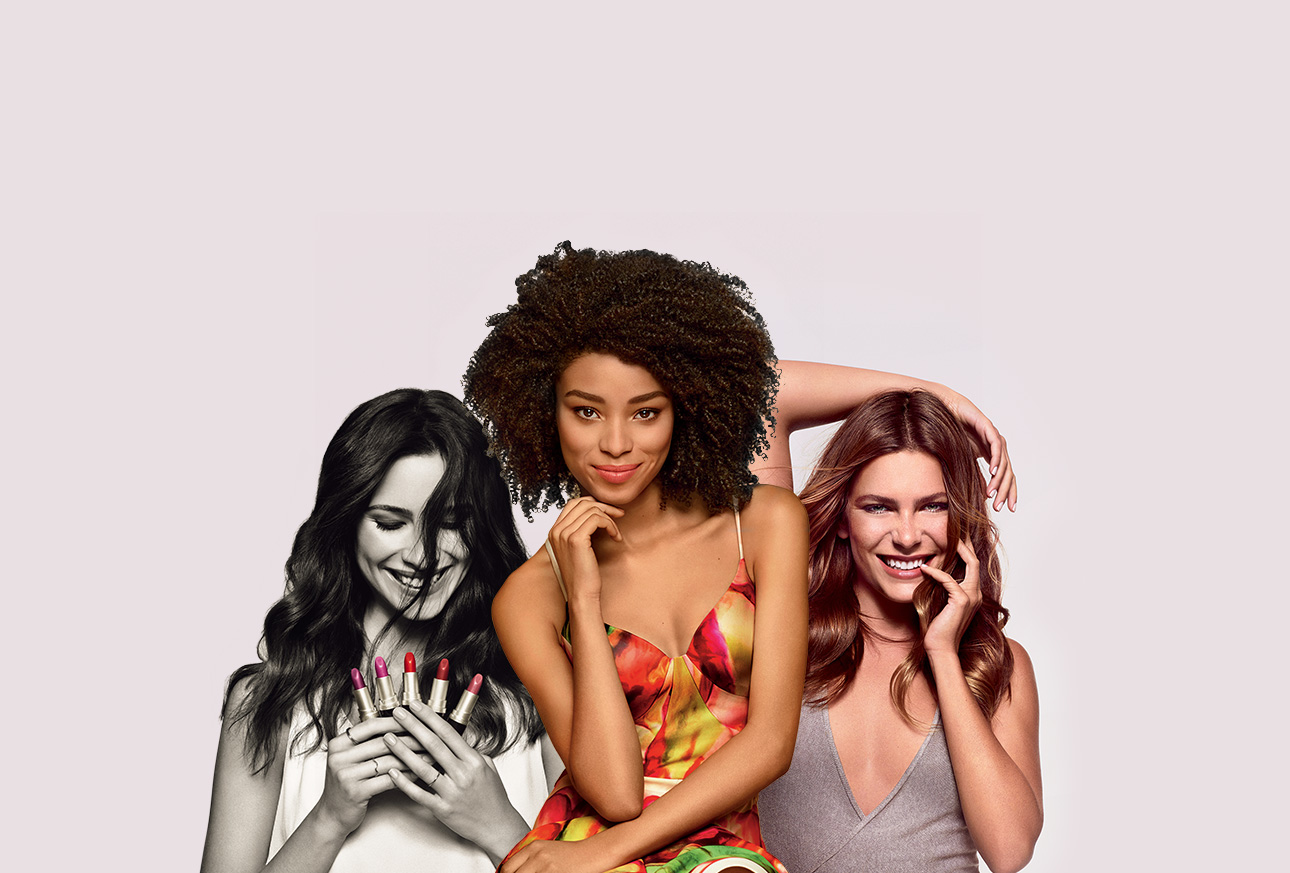
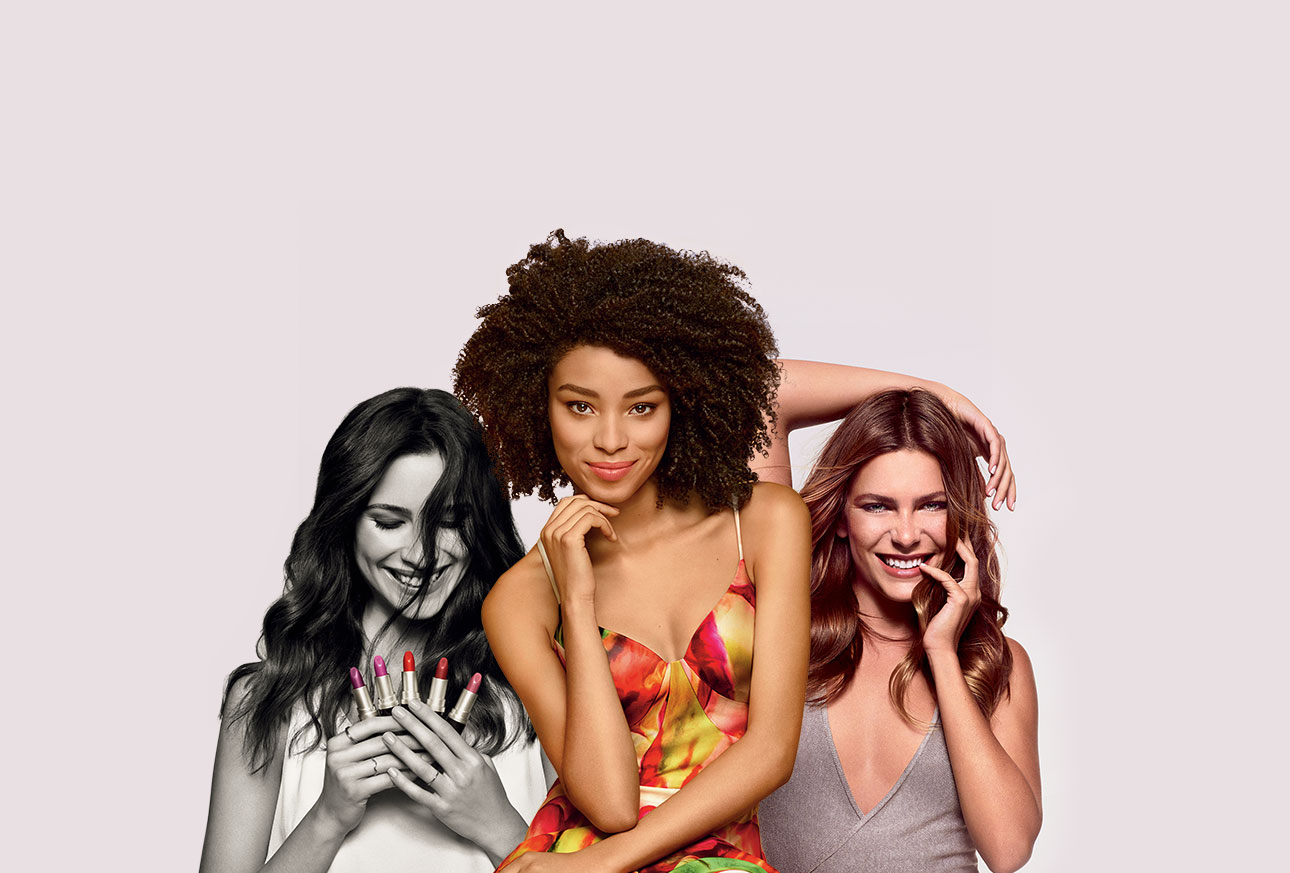
modificaciones frontend

diff --git a/public/scripts/controllers/user.js b/public/scripts/controllers/user.js
@@ -11,7 +11,7 @@ angular.module('ecommerceApp')
     .controller('userCtrl', function ($scope, $http,$cookieStore, server, conexion,$rootScope,Facebook,$timeout) {
         //  $rootScope.$emit("CallParentMethod", {}); //llamar a una función de otro Controller
 
-        $scope.$parent.homevar=false;$scope.ready=true;
+        $scope.$parent.homevar=false;$scope.ready=true;$scope.successRegister=false;$scope.dangerRegister=false;
 
 
         function removeItem ( arr, item ) {
@@ -104,6 +104,8 @@ angular.module('ecommerceApp')
                                                         var promo= 0;
                                                         if (publicacion.codigo_promo != null && publicacion.codigo_promo != '' ){
                                                             promo = 40;
+                                                            $scope.successRegister=true;
+
                                                         }
 
                                                         if(publicacion.likes_count != response.reactions.summary.total_count) {
@@ -266,6 +268,38 @@ angular.module('ecommerceApp')
 
                 });
         };
+
+        $scope.agregarCodigoPromo = function (publicacion) {
+          $http({
+              url: server+'publicaciones/validarCodigo',
+              dataType: 'json',
+              method: 'POST',
+              data: {usuario:$cookieStore.get('id'), codigo:publicacion.codigo_promo, producto:publicacion.id}
+          })
+              .then(function (request) {
+                  if (request.data.success) {
+                      if (request.data.code){
+                          $scope.successRegister=true;
+                          $scope.dangerRegister=false;
+
+
+                      }else {
+                          $scope.successRegister=false;
+
+                          $scope.dangerRegister=true;
+                          
+
+                      }
+                  }
+                  else{
+                      console.log('Error al validar codigo '+publicacion.codigo+' del '+publicacion.id+' y usuario '+$cookieStore.get('id'));
+                  }
+              })
+              .finally(function () {
+
+
+              });
+      };
 
 
 

diff --git a/public/index.html b/public/index.html
@@ -53,7 +53,10 @@ ng-if="usrSesion.conectado"
   
   
                         
-             <a href=""  style="background-color:transparent;"  ng-if="logged==true" data-toggle="dropdown">Hola, <b style="cursor:pointer;"> {{nombreFacebook}}</b> &nbsp; <img src="images/icons/icon-dropdown.png" >
+             <a href=""  style="background-color:transparent;" class="dropdown"  ng-if="logged==true" >
+             Hola, <b style="cursor:pointer;"> {{nombreFacebook}}</b> &nbsp;
+              <img src="images/icons/icon-dropdown.png" >
+              </a>
                    <ul class="dropdown-menu" role="menu" aria-labelledby="menu1" style="background-color:transparent;border:none;box-shadow:none;padding:0;margin: 0;margin-top:-20px;margin-right:-15px;">
                             <li role="presentation"><a role="menuitem" href="" ng-if="logged==true" ng-click="cerrarSesion()" tabindex="-1"><img src="images/icons/icon-sesion.png"></a></li>
                        </ul>
@@ -61,6 +64,7 @@ ng-if="usrSesion.conectado"
                     </li>
 
                     <li>
+
                      <a ng-click="userPerfil()"  style="background-color:transparent;"  >Conteo de Likes</b> </a>
 
                     </li>
@@ -110,7 +114,7 @@ ng-if="usrSesion.conectado"
         </div>
 
         <header class="intro" ng-if="homevar==true" ng-hide="homevar==false" id="header-home">
-        <a href="#/inicio#home-welcome"  class="button-scroll f-white ancla"><img src="images/icons/icon-2.png"> </a>
+        <a ng-click="scrollproduct()"  class="button-scroll f-white ancla"><img src="images/icons/icon-2.png"> </a>
         <span class="span-scroll f-white"> Scroll para comenzar a comprar</span>
         </header>
 <div ng-view></div>

diff --git a/public/views/user-panel.html b/public/views/user-panel.html
@@ -55,7 +55,15 @@
             </div>
 
         </div>
+<div class="col-lg-4 col-md-4 col-sm-4 col-xs-12 col-sm-offset-3 tex-center div-input-promo-cart text-center">
+            <form ng-if="descuento == 0" >
+                <input type="text"  ng-model="publicacion.codigo_promo" placeholder="Código de descuento" class="form-control code-promo" title="Codigo de descuento"  ng-enter="agregarCodigoPromo(publicacion)">
+            </form>
+                <small ng-if="publicacion.codigo_promo != null && successRegister==true" style="color:#05a301;" ><b>Código registrado</b></small>
+                <small ng-if="publicacion.codigo_promo != null && dangerRegister==true" style="color:#e53936;" ><b>Código no válido</b></small>
 
+                
+        </div>
     
     </center>
 

diff --git a/public/scripts/controllers/index.js b/public/scripts/controllers/index.js
@@ -10,6 +10,13 @@
 angular.module('ecommerceApp')
     .controller('indexCtrl', function ($scope, $cookieStore, $location, $http, logger, server, conexion, $rootScope,Facebook,$timeout) {
         logger.debug('Controller INDEX ');
+        $scope.scrollproduct = function () {
+            $(function () {
+                    $('html, body').animate({
+                        scrollTop: $("#lirio2").offset().top
+                    }, 2000)
+            })
+        }
 
         $rootScope.$on("CallParentMethod", function(){}); //función para usar en otros controllers
         $scope.homevar=false;

diff --git a/public/views/carrito.html b/public/views/carrito.html
@@ -52,7 +52,7 @@
     </div>
     <br><br>
     <div class="row text-center" ng-hide="error"  ng-show="productos!=null">
-        <a  href="" data-toggle="modal" data-target="#myModal2" class="btn btn1">Confirmar y pagar.</a>
+        <a  href="" data-toggle="modal" data-target="#myModal2" class="btn btn1">Confirmar y pagar</a>
         <div class="div-shared-product">
         </div>
 

diff --git a/public/styles/main.css b/public/styles/main.css
@@ -415,7 +415,7 @@ hr{
   min-height:100%;
   text-align: center;
   color: #000;
-  background: url(../images/landing-oboticario.jpg) no-repeat bottom center;
+  background: url(../images/landing-oboticario.jpg) no-repeat center center;
   -webkit-background-size: cover;
   -moz-background-size: cover;
   background-size: cover;

diff --git a/public/scripts/controllers/home.js b/public/scripts/controllers/home.js
@@ -212,5 +212,14 @@ angular.module('ecommerceApp')
         }
 
 
+        $scope.scrollproduct = function () {
+            $(function () {
+                    $('html, body').animate({
+                        scrollTop: $("#lirio2").offset().top
+                    }, 2000)
+            })
+        }
+
+
 
     });
